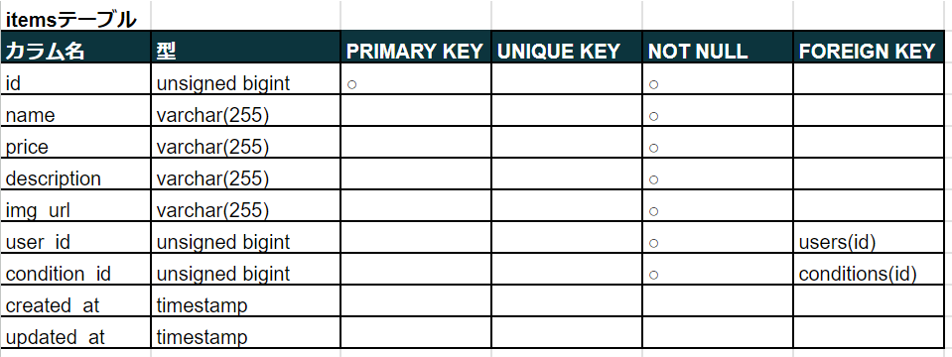
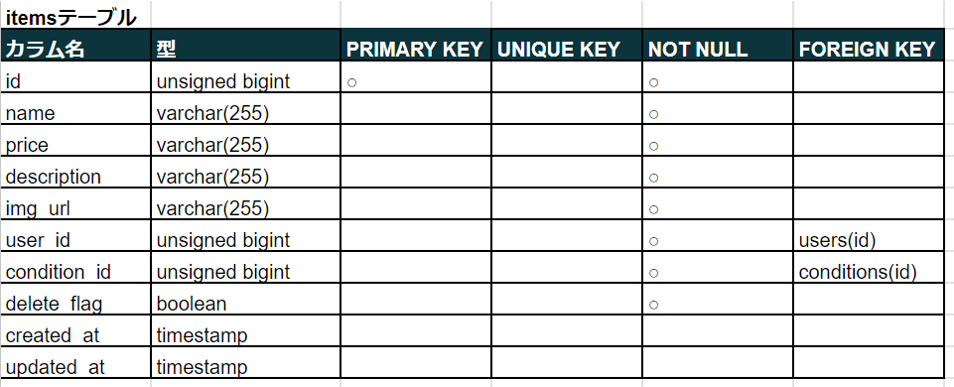
add new colum items

diff --git a/tests/Feature/Http/Controllers/Owner/ItemControllerTest.php b/tests/Feature/Http/Controllers/Owner/ItemControllerTest.php
@@ -4,6 +4,8 @@ namespace Tests\Feature\Http\Controllers\Owner;
 
 use App\Models\Item;
 use Database\Seeders\ItemSeeder;
+use Database\Seeders\ProfileSeeder;
+use Database\Seeders\UserSeeder;
 use Illuminate\Foundation\Testing\RefreshDatabase;
 use Tests\TestCase;
 
@@ -24,9 +26,20 @@ class ItemControllerTest extends TestCase
     /** @test */
     function owner_item_detail_view()
     {
-        $this->seed(ItemSeeder::class);
+        $this->seed([ItemSeeder::class, ProfileSeeder::class, UserSeeder::class]);
         $item = Item::first();
         $this->get(route('owner.item_detail', ['item_id' => $item->id]))->assertRedirectToRoute('owner.login');
         $this->login('owners');
+        $this->get(route('owner.item_detail', ['item_id' => $item->id]))
+        ->assertSee($item->name);
+    }
+
+    /** @test */
+    function owner_can_delete_item() 
+    {
+        // $this->seed(ItemSeeder::class);
+        // $this->login('owners');
+        // $item = Item::find(1);
+        
     }
 }

diff --git a/app/Http/Controllers/User/ItemController.php b/app/Http/Controllers/User/ItemController.php
@@ -20,11 +20,14 @@ class ItemController extends Controller
         $items = Item::where('user_id', '!=', $user_id)
         ->where('name', 'LIKE', '%'. $request->name. '%')
         ->doesntHave('sold_items')
+        ->where('delete_flag', 0)
         ->get();
 
         $likedItems = Item::whereHas('likes', function($query) use($user_id) {
             $query->where('user_id', $user_id);
-        })->doesntHave('sold_items')->get();
+        })->doesntHave('sold_items')
+        ->where('delete_flag', 0)
+        ->get();
 
         return view('user.index', ['items' => $items, 'l_items' => $likedItems]);
     }

diff --git a/database/migrations/2023_06_26_101647_create_items_table.php b/database/migrations/2023_06_26_101647_create_items_table.php
@@ -21,6 +21,7 @@ return new class extends Migration
             $table->string('img_url', 255);
             $table->foreignId('user_id');
             $table->foreignId('condition_id');
+            $table->boolean('delete_flag')->default(0);
             $table->timestamps();
         });
     }
